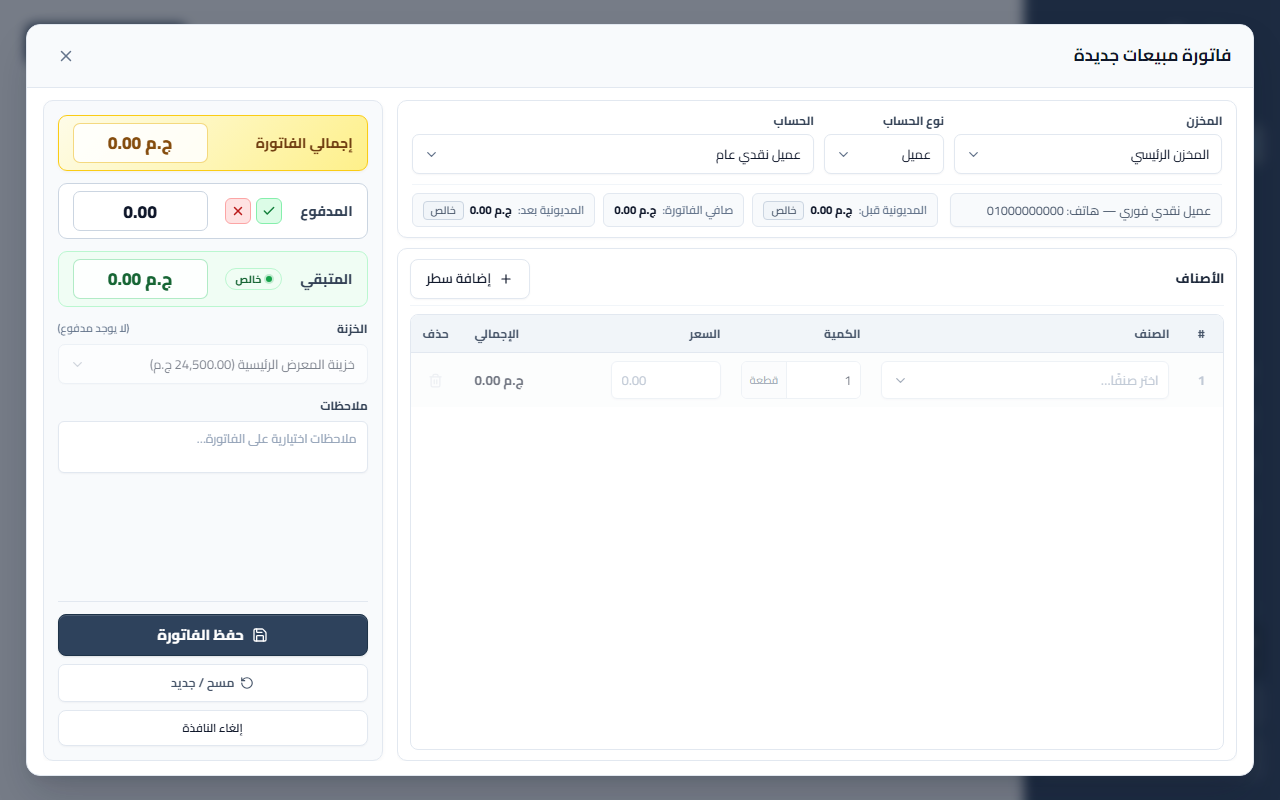
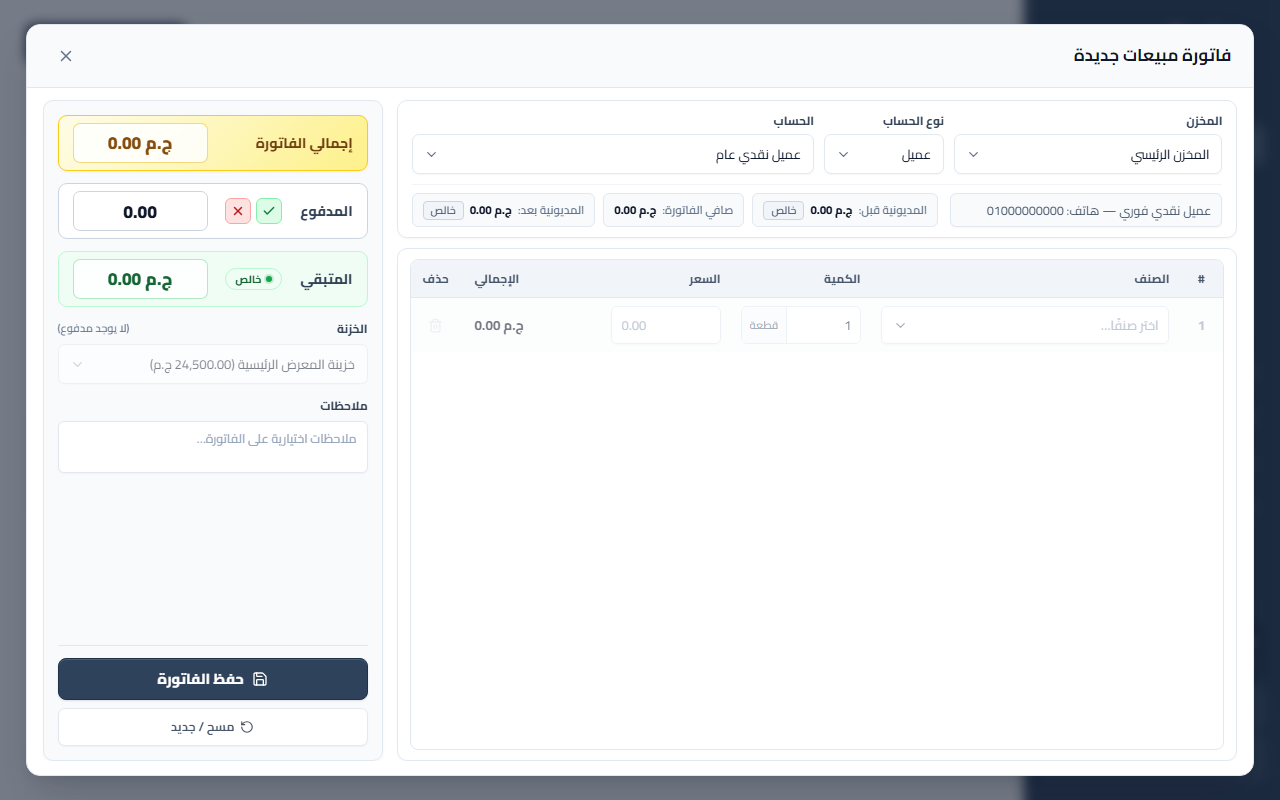
style(invoices): remove items header bar and cancel window button for a cleaner layout

diff --git a/src/components/InvoiceForm.tsx b/src/components/InvoiceForm.tsx
@@ -1,5 +1,5 @@
 import { useEffect, useRef, useState, type FormEvent, type KeyboardEvent } from 'react';
-import { Check, Plus, RotateCcw, Save, Trash2, X } from 'lucide-react';
+import { Check, RotateCcw, Save, Trash2, X } from 'lucide-react';
 import { supabase } from '../lib/supabase';
 import { money, qty as formatQty, round2, today } from '../lib/format';
 import { calculateInvoiceSubtotal, calculateRemaining, calculateBalancePreview } from '../lib/invoiceMath';
@@ -49,7 +49,7 @@ export default function InvoiceForm({
   stockRows,
   editing,
   onSaved,
-  onCancel,
+  onCancel: _onCancel,
 }: InvoiceFormProps) {
   const isPurchase = kind === 'purchase' || kind === 'purchase_return';
   const isReturn = kind === 'sale_return' || kind === 'purchase_return';
@@ -199,10 +199,6 @@ export default function InvoiceForm({
       }
       return updated;
     });
-  }
-
-  function addEmptyLine() {
-    setLines((current) => [...current, emptyLine()]);
   }
 
   function moveFromQuantity(event: KeyboardEvent<HTMLInputElement>) {
@@ -426,18 +422,6 @@ export default function InvoiceForm({
 
           {/* جدول الأصناف */}
           <div className="right-card items-table-card">
-            <div className="table-header-title-bar">
-              <span className="items-title">الأصناف</span>
-              <button
-                type="button"
-                className="btn btn-sm"
-                onClick={addEmptyLine}
-                title="إضافة سطر صنف جديد"
-              >
-                <Plus size={14} /> إضافة سطر
-              </button>
-            </div>
-
             <div className="lines-wrap">
               <table className="lines-table">
                 <thead>
@@ -718,16 +702,6 @@ export default function InvoiceForm({
             >
               <RotateCcw size={14} />
               <span>مسح / جديد</span>
-            </button>
-
-            <button
-              type="button"
-              className="btn btn-ghost"
-              onClick={onCancel}
-              disabled={busy}
-              style={{ fontSize: '11.5px', minHeight: '28px' }}
-            >
-              إلغاء النافذة
             </button>
           </div>
         </div>

diff --git a/take-screenshots.js b/take-screenshots.js
@@ -40,7 +40,7 @@ function runEdgeScreenshot(width, height, outputPath, targetUrl) {
       '--headless',
       '--disable-gpu',
       '--hide-scrollbars',
-      '--virtual-time-budget=2000',
+      '--virtual-time-budget=4000',
       `--user-data-dir=${tempProfile}`,
       `--window-size=${width},${height}`,
       `--screenshot=${outputPath}`,
